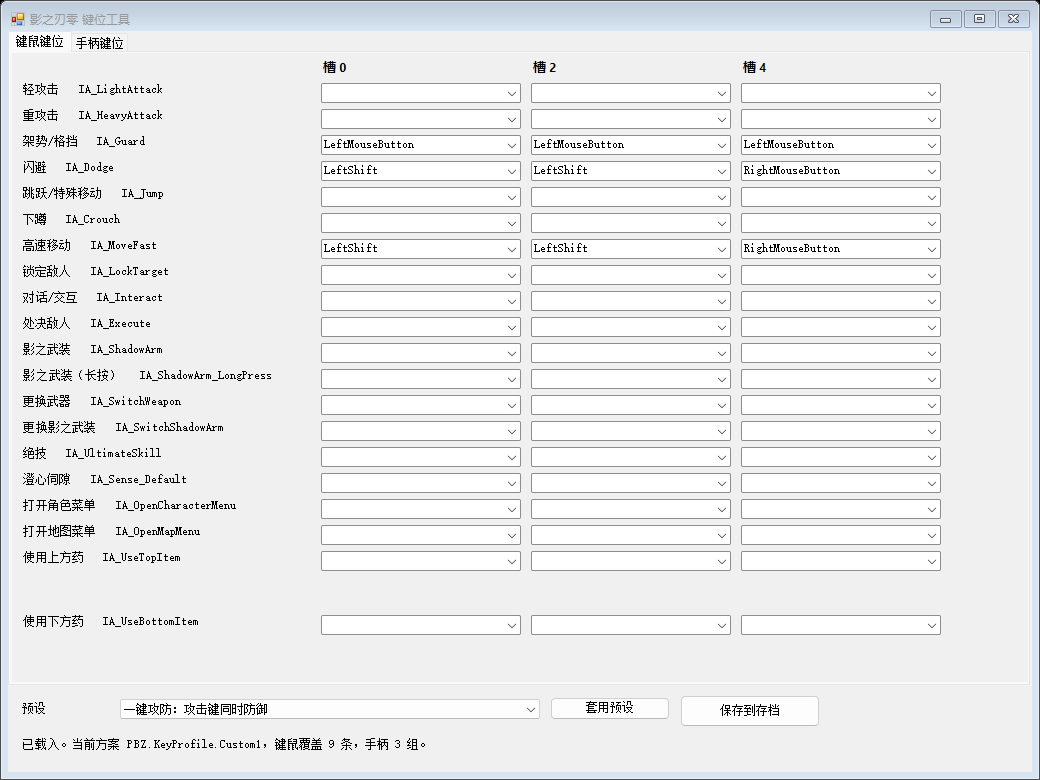
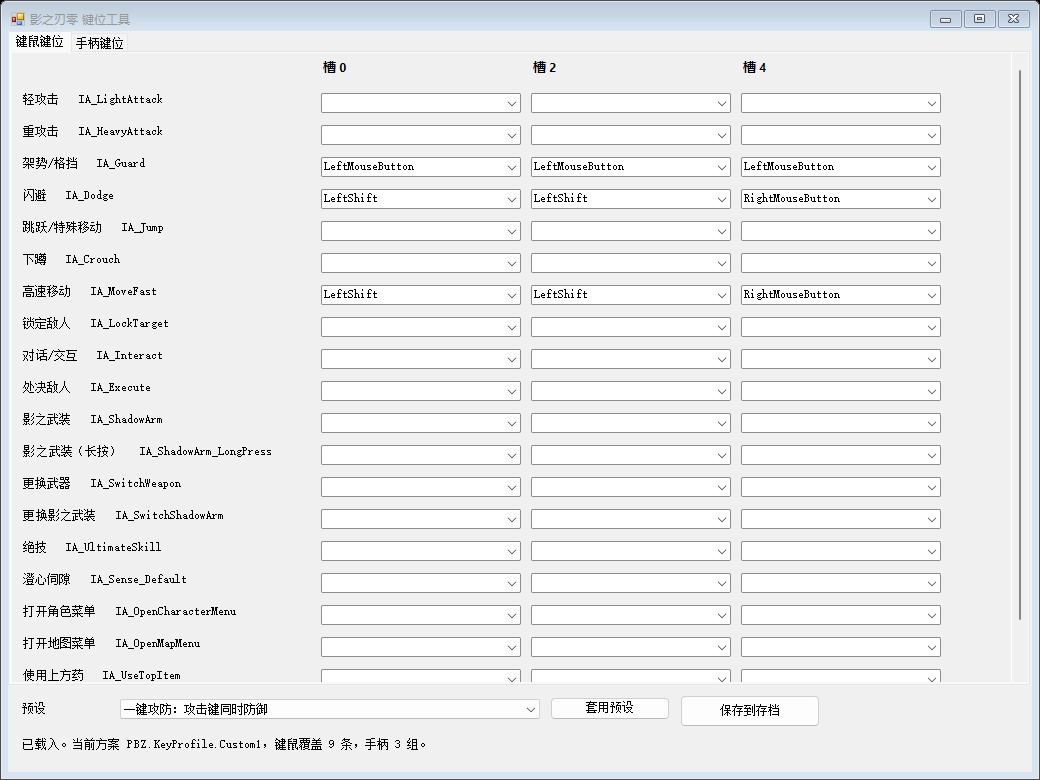
fix: make the action grid scroll instead of cutting rows off

diff --git a/src/MainForm.cs b/src/MainForm.cs
@@ -79,6 +79,7 @@ namespace PBZKeyForge
         void Build()
         {
             Width = 1040; Height = 780;
+            MinimumSize = new Size(700, 480);
             StartPosition = FormStartPosition.CenterScreen;
             MaximizeBox = true;
 
@@ -140,15 +141,25 @@ namespace PBZKeyForge
 
         void BuildKbTab()
         {
-            var grid = new TableLayoutPanel { Dock = DockStyle.Fill, AutoScroll = true, ColumnCount = 4, Padding = new Padding(6) };
+            var host = new Panel { Dock = DockStyle.Fill, AutoScroll = true };
+            var grid = new TableLayoutPanel
+            {
+                AutoSize = true,
+                AutoSizeMode = AutoSizeMode.GrowAndShrink,
+                Dock = DockStyle.Top,
+                ColumnCount = 4,
+                Padding = new Padding(6)
+            };
             grid.ColumnStyles.Add(new ColumnStyle(SizeType.Absolute, 300));
             for (int i = 0; i < 3; i++) grid.ColumnStyles.Add(new ColumnStyle(SizeType.Absolute, 210));
+            grid.RowStyles.Add(new RowStyle(SizeType.Absolute, 28));
             grid.Controls.Add(Head("槽 0"), 1, 0);
             grid.Controls.Add(Head("槽 2"), 2, 0);
             grid.Controls.Add(Head("槽 4"), 3, 0);
             int row = 1;
             foreach (var a in Actions)
             {
+                grid.RowStyles.Add(new RowStyle(SizeType.Absolute, 32));
                 var lbl = new Label { Text = a.Label, AutoSize = true, Anchor = AnchorStyles.Left };
                 lbl.Tag = "action:" + a.Id;
                 grid.Controls.Add(lbl, 0, row);
@@ -163,20 +174,32 @@ namespace PBZKeyForge
                 kbBoxes[a.Id] = arr;
                 row++;
             }
-            tabKb.Controls.Add(grid);
+            grid.RowCount = row;
+            host.Controls.Add(grid);
+            tabKb.Controls.Add(host);
         }
 
         void BuildPadTab()
         {
-            var grid = new TableLayoutPanel { Dock = DockStyle.Fill, AutoScroll = true, ColumnCount = 4, Padding = new Padding(6) };
+            var host = new Panel { Dock = DockStyle.Fill, AutoScroll = true };
+            var grid = new TableLayoutPanel
+            {
+                AutoSize = true,
+                AutoSizeMode = AutoSizeMode.GrowAndShrink,
+                Dock = DockStyle.Top,
+                ColumnCount = 4,
+                Padding = new Padding(6)
+            };
             grid.ColumnStyles.Add(new ColumnStyle(SizeType.Absolute, 300));
             for (int i = 0; i < 3; i++) grid.ColumnStyles.Add(new ColumnStyle(SizeType.Absolute, 210));
+            grid.RowStyles.Add(new RowStyle(SizeType.Absolute, 28));
             grid.Controls.Add(Head("Second"), 1, 0);
             grid.Controls.Add(Head("Fourth"), 2, 0);
             grid.Controls.Add(Head("Sixth"), 3, 0);
             int row = 1;
             foreach (var a in Actions)
             {
+                grid.RowStyles.Add(new RowStyle(SizeType.Absolute, 32));
                 var lbl = new Label { Text = a.Label, AutoSize = true, Anchor = AnchorStyles.Left };
                 lbl.Tag = "action:" + a.Id;
                 grid.Controls.Add(lbl, 0, row);
@@ -191,7 +214,9 @@ namespace PBZKeyForge
                 padBoxes[a.Id] = arr;
                 row++;
             }
-            tabPad.Controls.Add(grid);
+            grid.RowCount = row;
+            host.Controls.Add(grid);
+            tabPad.Controls.Add(host);
         }
 
         static Label Head(string s) { return new Label { Text = s, AutoSize = true, Font = new Font("Segoe UI", 9, FontStyle.Bold) }; }

diff --git a/src/AssemblyInfo.cs b/src/AssemblyInfo.cs
@@ -6,7 +6,8 @@ using System.Runtime.InteropServices;
 [assembly: AssemblyProduct("PBZKeyForge")]
 [assembly: AssemblyCopyright("MIT License")]
 [assembly: ComVisible(false)]
-[assembly: AssemblyVersion("1.0.2.0")]
-[assembly: AssemblyFileVersion("1.0.2.0")]
+[assembly: AssemblyVersion("1.0.3.0")]
+[assembly: AssemblyFileVersion("1.0.3.0")]
+
 
 

diff --git a/CHANGELOG.md b/CHANGELOG.md
@@ -1,3 +1,8 @@
+## 1.0.3
+
+- The action grid scrolls. Before this, a window shorter than the 20-row table simply cut the lower actions off with no way to reach them.
+- Minimum window size is 700x480, so it still works on a small screen.
+
 ## 1.0.2
 
 - The download no longer ships `PBZKeyForge-cli.exe`. It stays in the build for CI (preset generation and round-trip self tests) but players only get the editor and the preset save files.
@@ -33,5 +38,6 @@ First release.
 
 Verified against the Steam launch build `CL-301524`: byte-identical GVAS round-trip, and
 preset writes validated against a strict structural checker.
+
 
 
